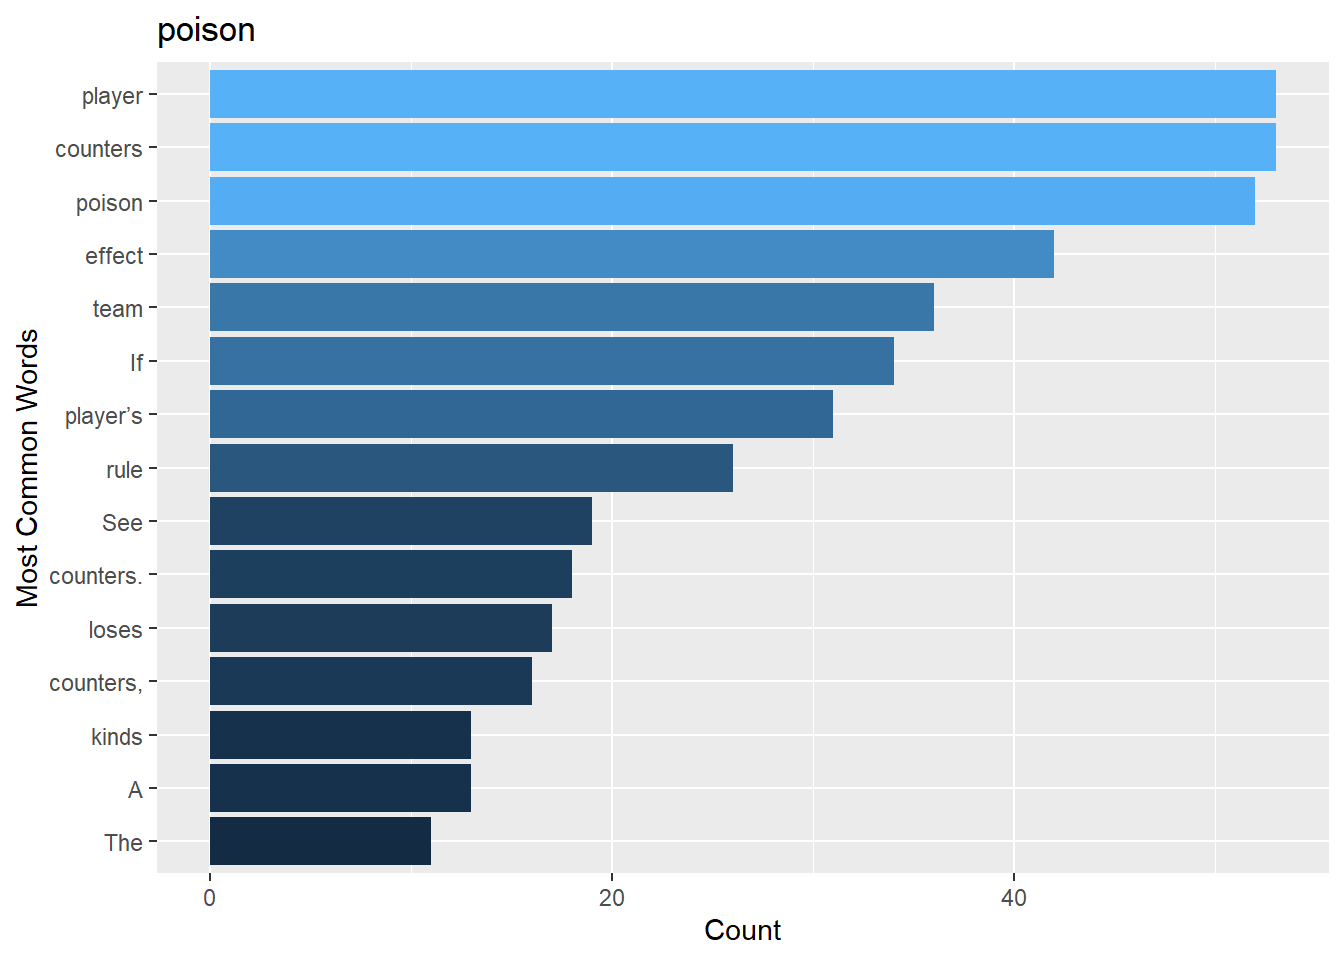
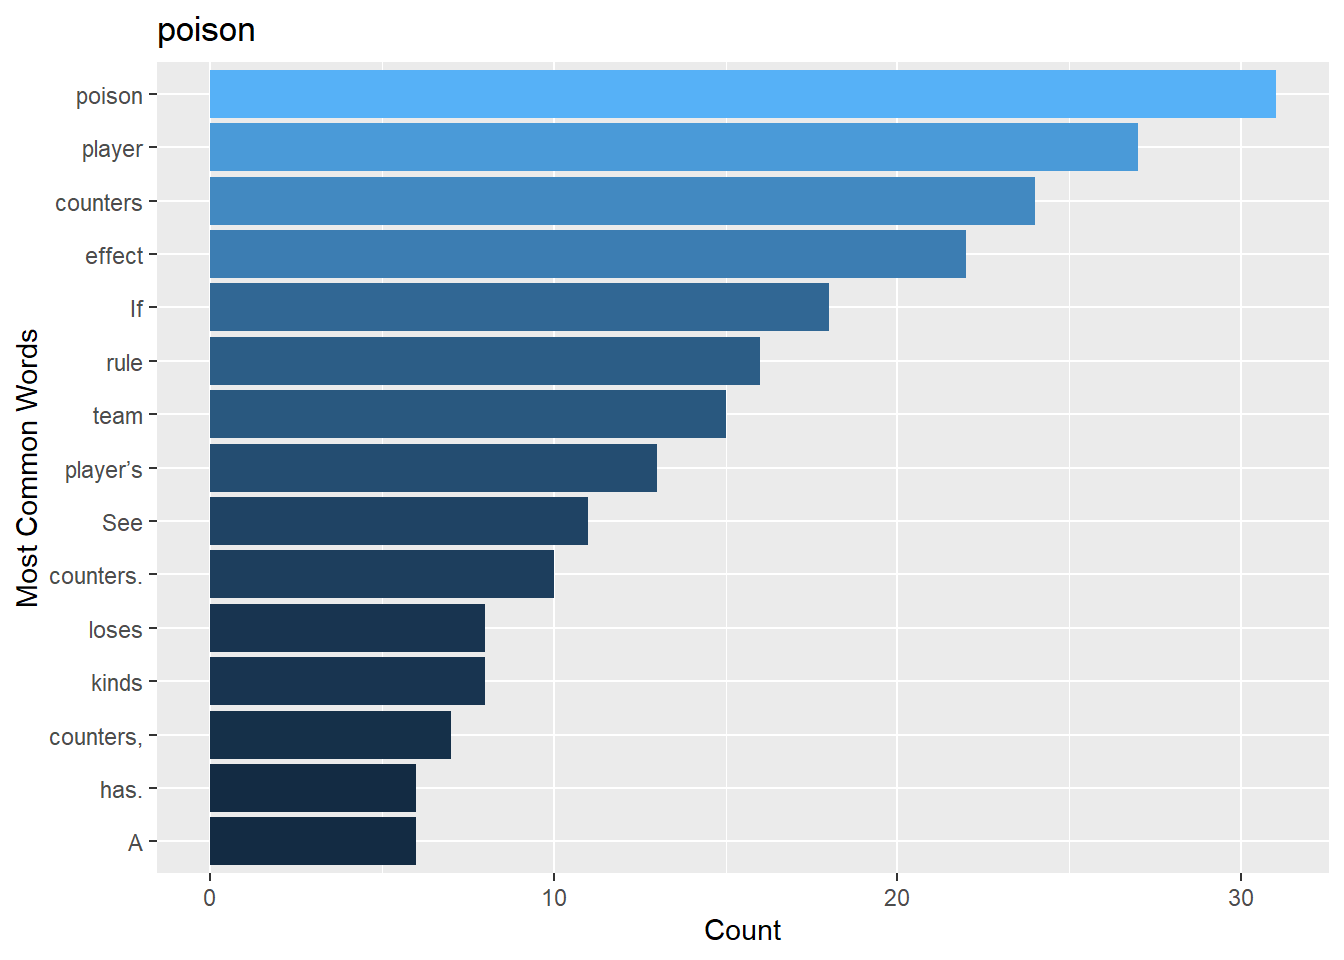
Idk what this is

diff --git a/docs/index.html b/docs/index.html
@@ -207,7 +207,7 @@ $ word_count &lt;int&gt; 15, 750, 11, 5, 24, 84, 305, 2, 3, 5, 2, 1, 265, 2, 1, 
 </div>
 </div>
 <p>From this graphic for pool, we can see that the most common term close to it is ‘mana’. This makes sense, because in the game, ‘mana pool’ is a common phrase.</p>
-<p>Another example would be the keyword poison. The phrase most used with this would be ‘poison counter’, so ‘counter’ should be the top term on this graphic.</p>
+<p>Another example would be the keyword poison, with an area of search of 20. The phrase most used with this would be ‘poison counter’, so ‘counter’ should be the top term on this graphic.</p>
 <div class="cell">
 <div class="cell-output cell-output-stdout">
 <pre><code>[1] "See rule 104.3d"
@@ -221,19 +221,27 @@ $ word_count &lt;int&gt; 15, 750, 11, 5, 24, 84, 305, 2, 3, 5, 2, 1, 265, 2, 1, 
 <p><img src="index_files/figure-html/unnamed-chunk-3-1.png" class="img-fluid" width="672"></p>
 </div>
 </div>
-<p>Interestingly enough, it appears that ‘player’ is the most common term. This example underlines the importance of the area of search. While ‘poison counter’ might be the most common term, the rules might reference the player many times for every mention of ‘poison’, and since the area of search we chose was 40, it will return that as higher.</p>
+<p>Interestingly enough, it appears that ‘player’ is the most common term. This example underlines the importance of the area of search. While ‘poison counter’ might be the most common term, the rules might reference the player many times for every mention of ‘poison’, and since the area of search we chose was 20, it will return that as higher.</p>
 <p>Changing the area of search to 1 gives this graphic.</p>
 <div class="cell">
 <div class="cell-output-display">
 <p><img src="index_files/figure-html/unnamed-chunk-4-1.png" class="img-fluid" width="672"></p>
 </div>
 </div>
+<p>The player is referenced more than counters when talking about poison, but the ‘counter’ keyword is referenced closer to ‘poison’ than ‘player’ is.</p>
 </section>
 <section id="analysis" class="level2">
 <h2 class="anchored" data-anchor-id="analysis">Analysis</h2>
+<p>The keywords referenced more than 260 times in the rules are as follows are here:</p>
+<div class="cell">
+<div class="cell-output-display">
+<p><img src="index_files/figure-html/unnamed-chunk-5-1.png" class="img-fluid" width="672"></p>
+</div>
+</div>
 </section>
 <section id="discussion" class="level2">
 <h2 class="anchored" data-anchor-id="discussion">Discussion</h2>
+<p>Some keywords go hand in hand with other keywords, and the graphics prove that. Interestingly enough, however, some more common keywords like ‘player’ and ‘ability’ are not as homogeneous in their placement in the rules as one would think. Some keywords have many more of a certain ‘common’ keyword than others.</p>
 
 
 </section>
